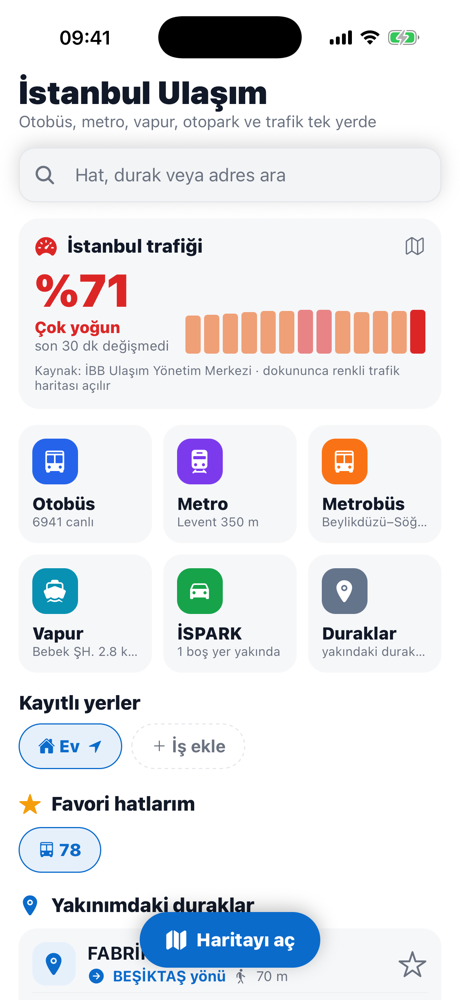
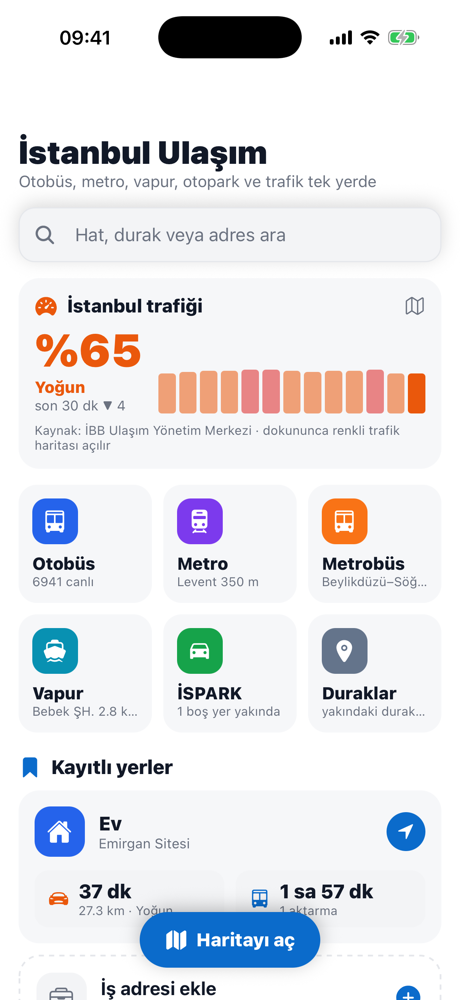
README: kayıtlı yer kartları (araçla/otobüsle süre) ve yeni ekran görüntüleri

diff --git a/README.md b/README.md
@@ -10,7 +10,7 @@ Expo (React Native) mobil uygulaması + bağımlılıksız bir Node.js sunucusun
 
 | Alan | Ne yapar | Veri |
 |---|---|---|
-| **Ana sayfa** | Trafik endeksi, kategori kartları, kayıtlı yerler (Ev / İş), favori hat / durak / metro / otopark | – |
+| **Ana sayfa** | Trafik endeksi, kategori kartları, **kayıtlı yerler** (Ev / İş / yıldızlı yer; her kartta araçla trafikli ve otobüsle varış süresi), favori hat / durak / metro / otopark | İBB UYM, OSRM, kendi rota planlayıcı |
 | **Otobüs** | Canlı otobüs konumu, hat güzergâhı ve animasyonu, gidiş/dönüş rengi, yön oku, durak varış tahmini, hat uyarıları, planlı kalkış saatleri | İETT SOAP, iett.istanbul |
 | **Metro / tramvay** | Hatlar, istasyonlar, yakın istasyonda sıradaki seferler | Metro İstanbul API |
 | **Marmaray ve M11** | Marmaray ile Havalimanı metrosu (M11) hat çizgisi ve istasyonları (statik, planlı) | İBB GTFS, OpenStreetMap |
@@ -32,9 +32,10 @@ Expo (React Native) mobil uygulaması + bağımlılıksız bir Node.js sunucusun
 <p align="center">
   <img src="docs/screenshots/06-hat.png" width="23%" alt="Hat modu: güzergâh, canlı otobüsler, planlı kalkış">
   <img src="docs/screenshots/05-ispark-detay.png" width="23%" alt="Otopark kartı">
+  <img src="docs/screenshots/07-kayitli-yerler.png" width="23%" alt="Kayıtlı yerler: araçla ve otobüsle varış süresi">
 </p>
 
-*Ana sayfa · renkli trafik · metro · İSPARK · hat modu · otopark kartı. Görüntüler iOS Simülatörü'nden, canlı veriyle alınmıştır.*
+*Ana sayfa · renkli trafik · metro · İSPARK · hat modu · otopark kartı · kayıtlı yerler (araçla/otobüsle süre). Görüntüler iOS Simülatörü'nden, canlı veriyle alınmıştır.*
 
 ## Mimari
 
